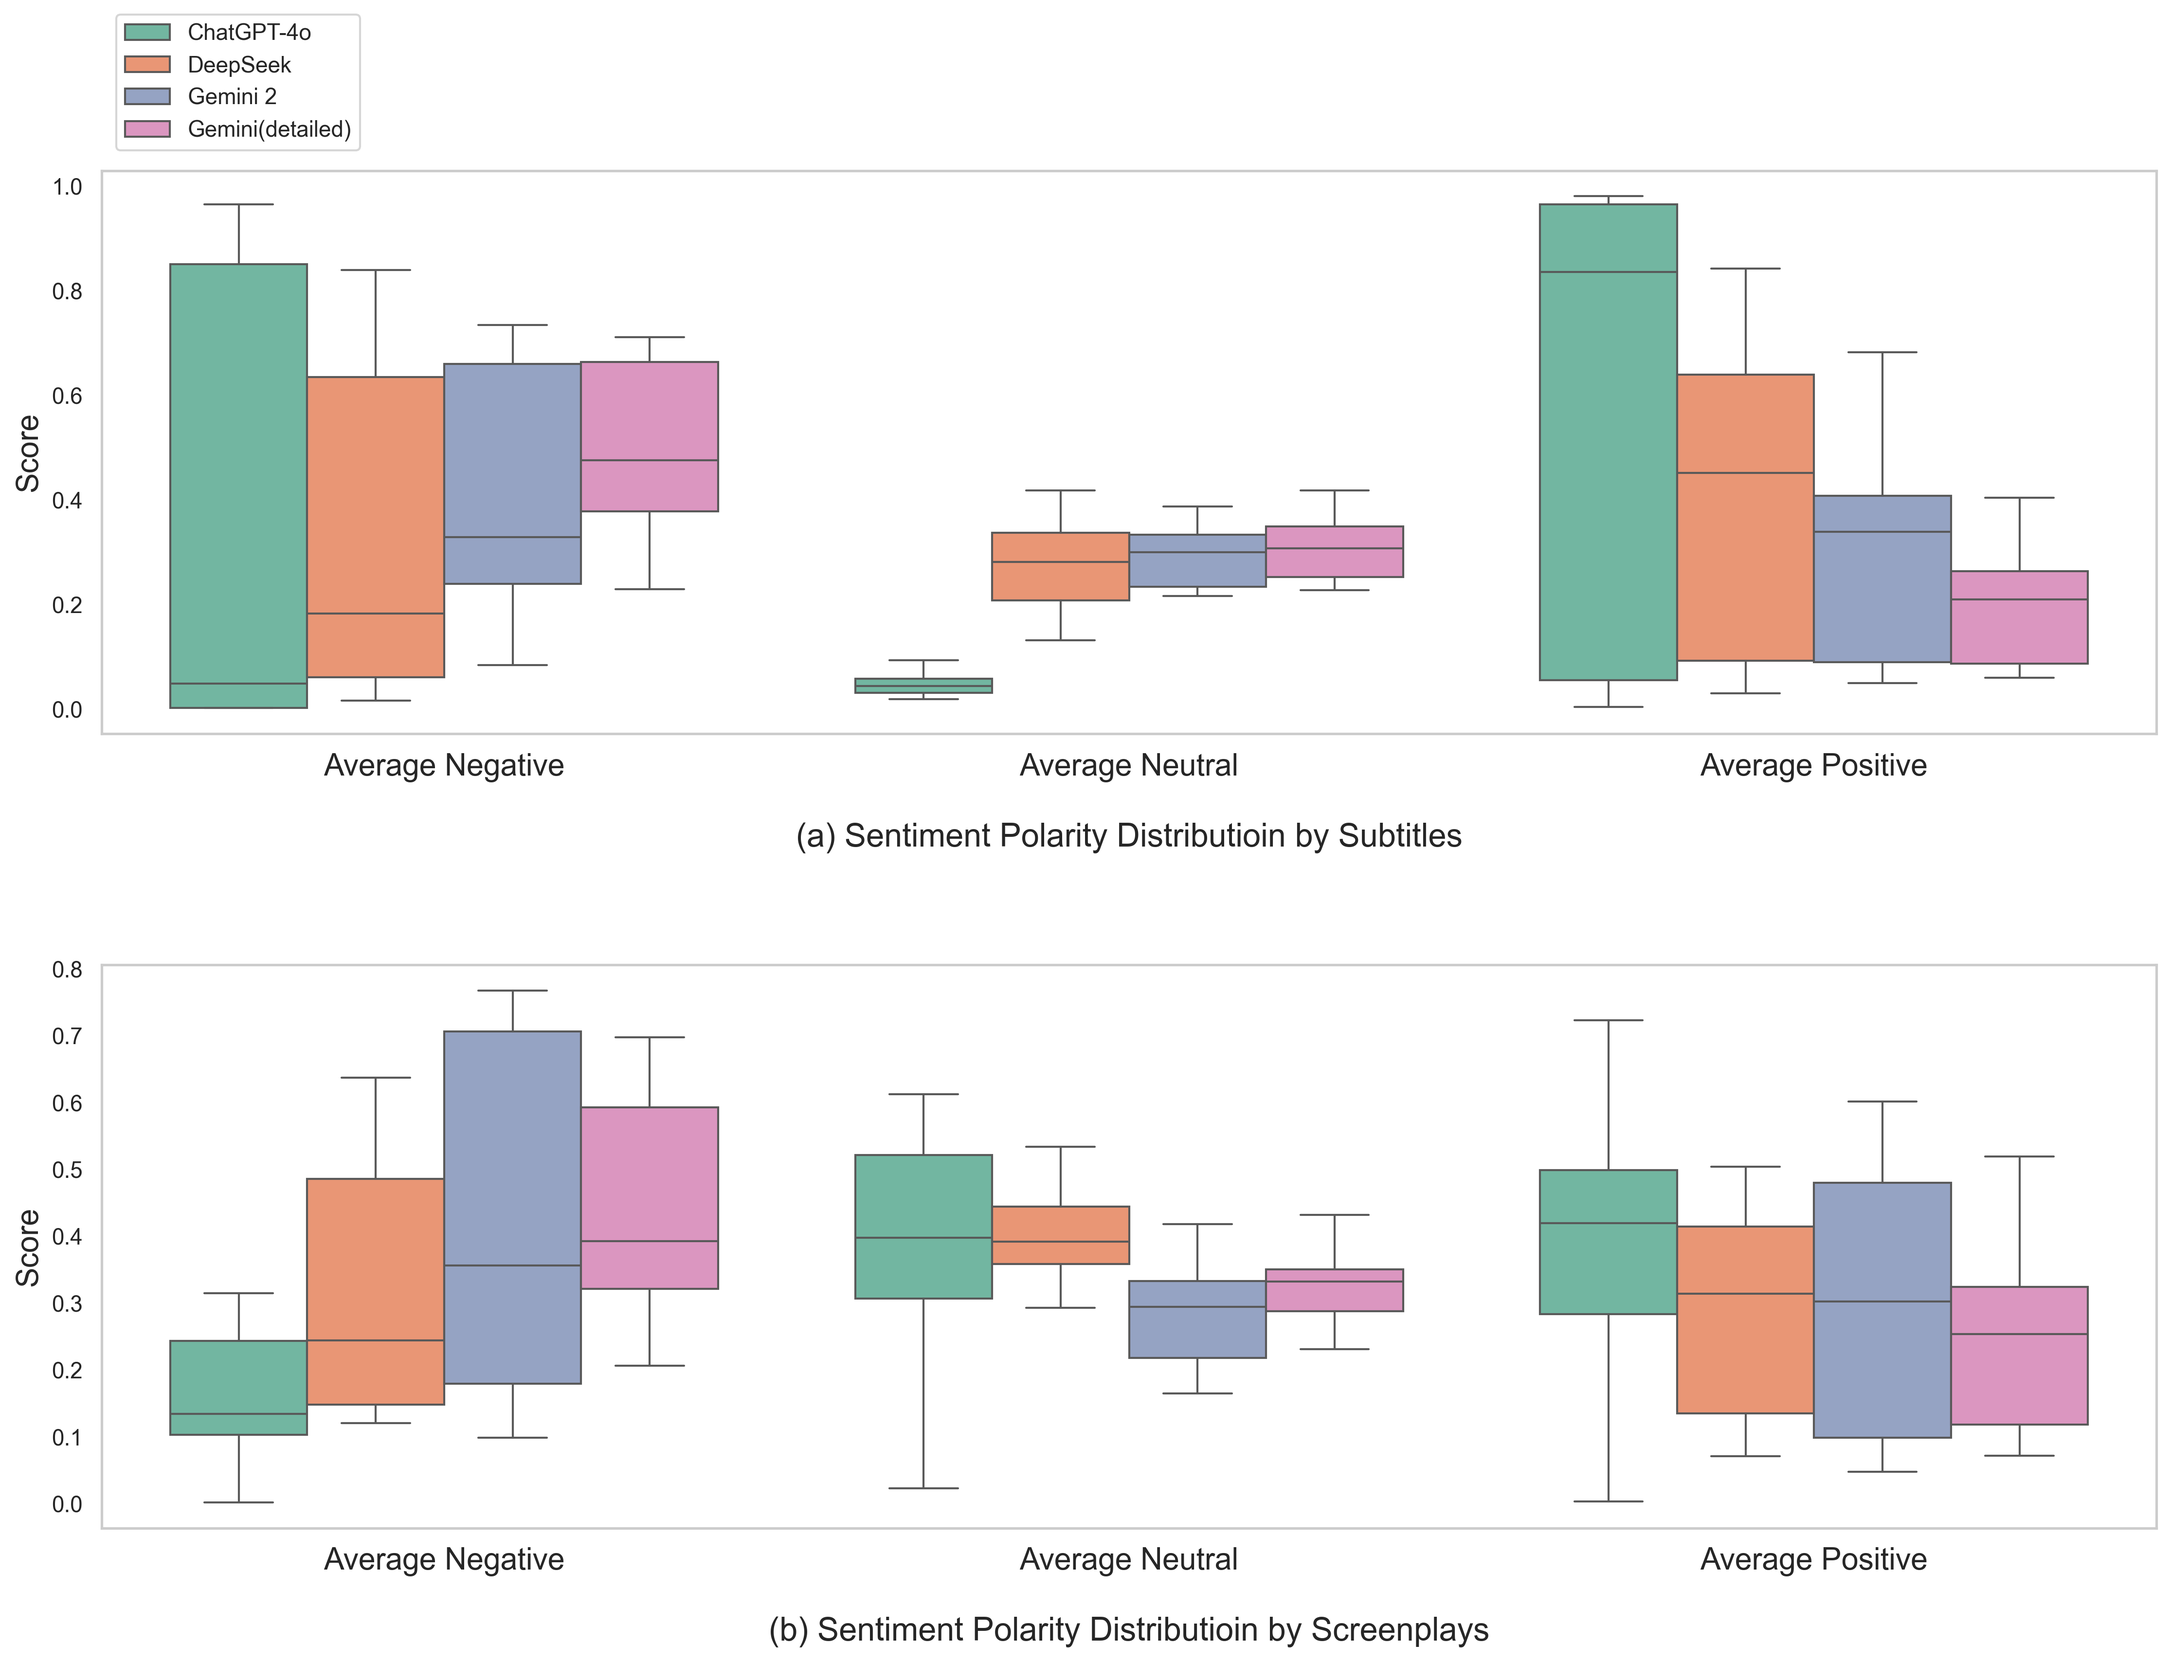
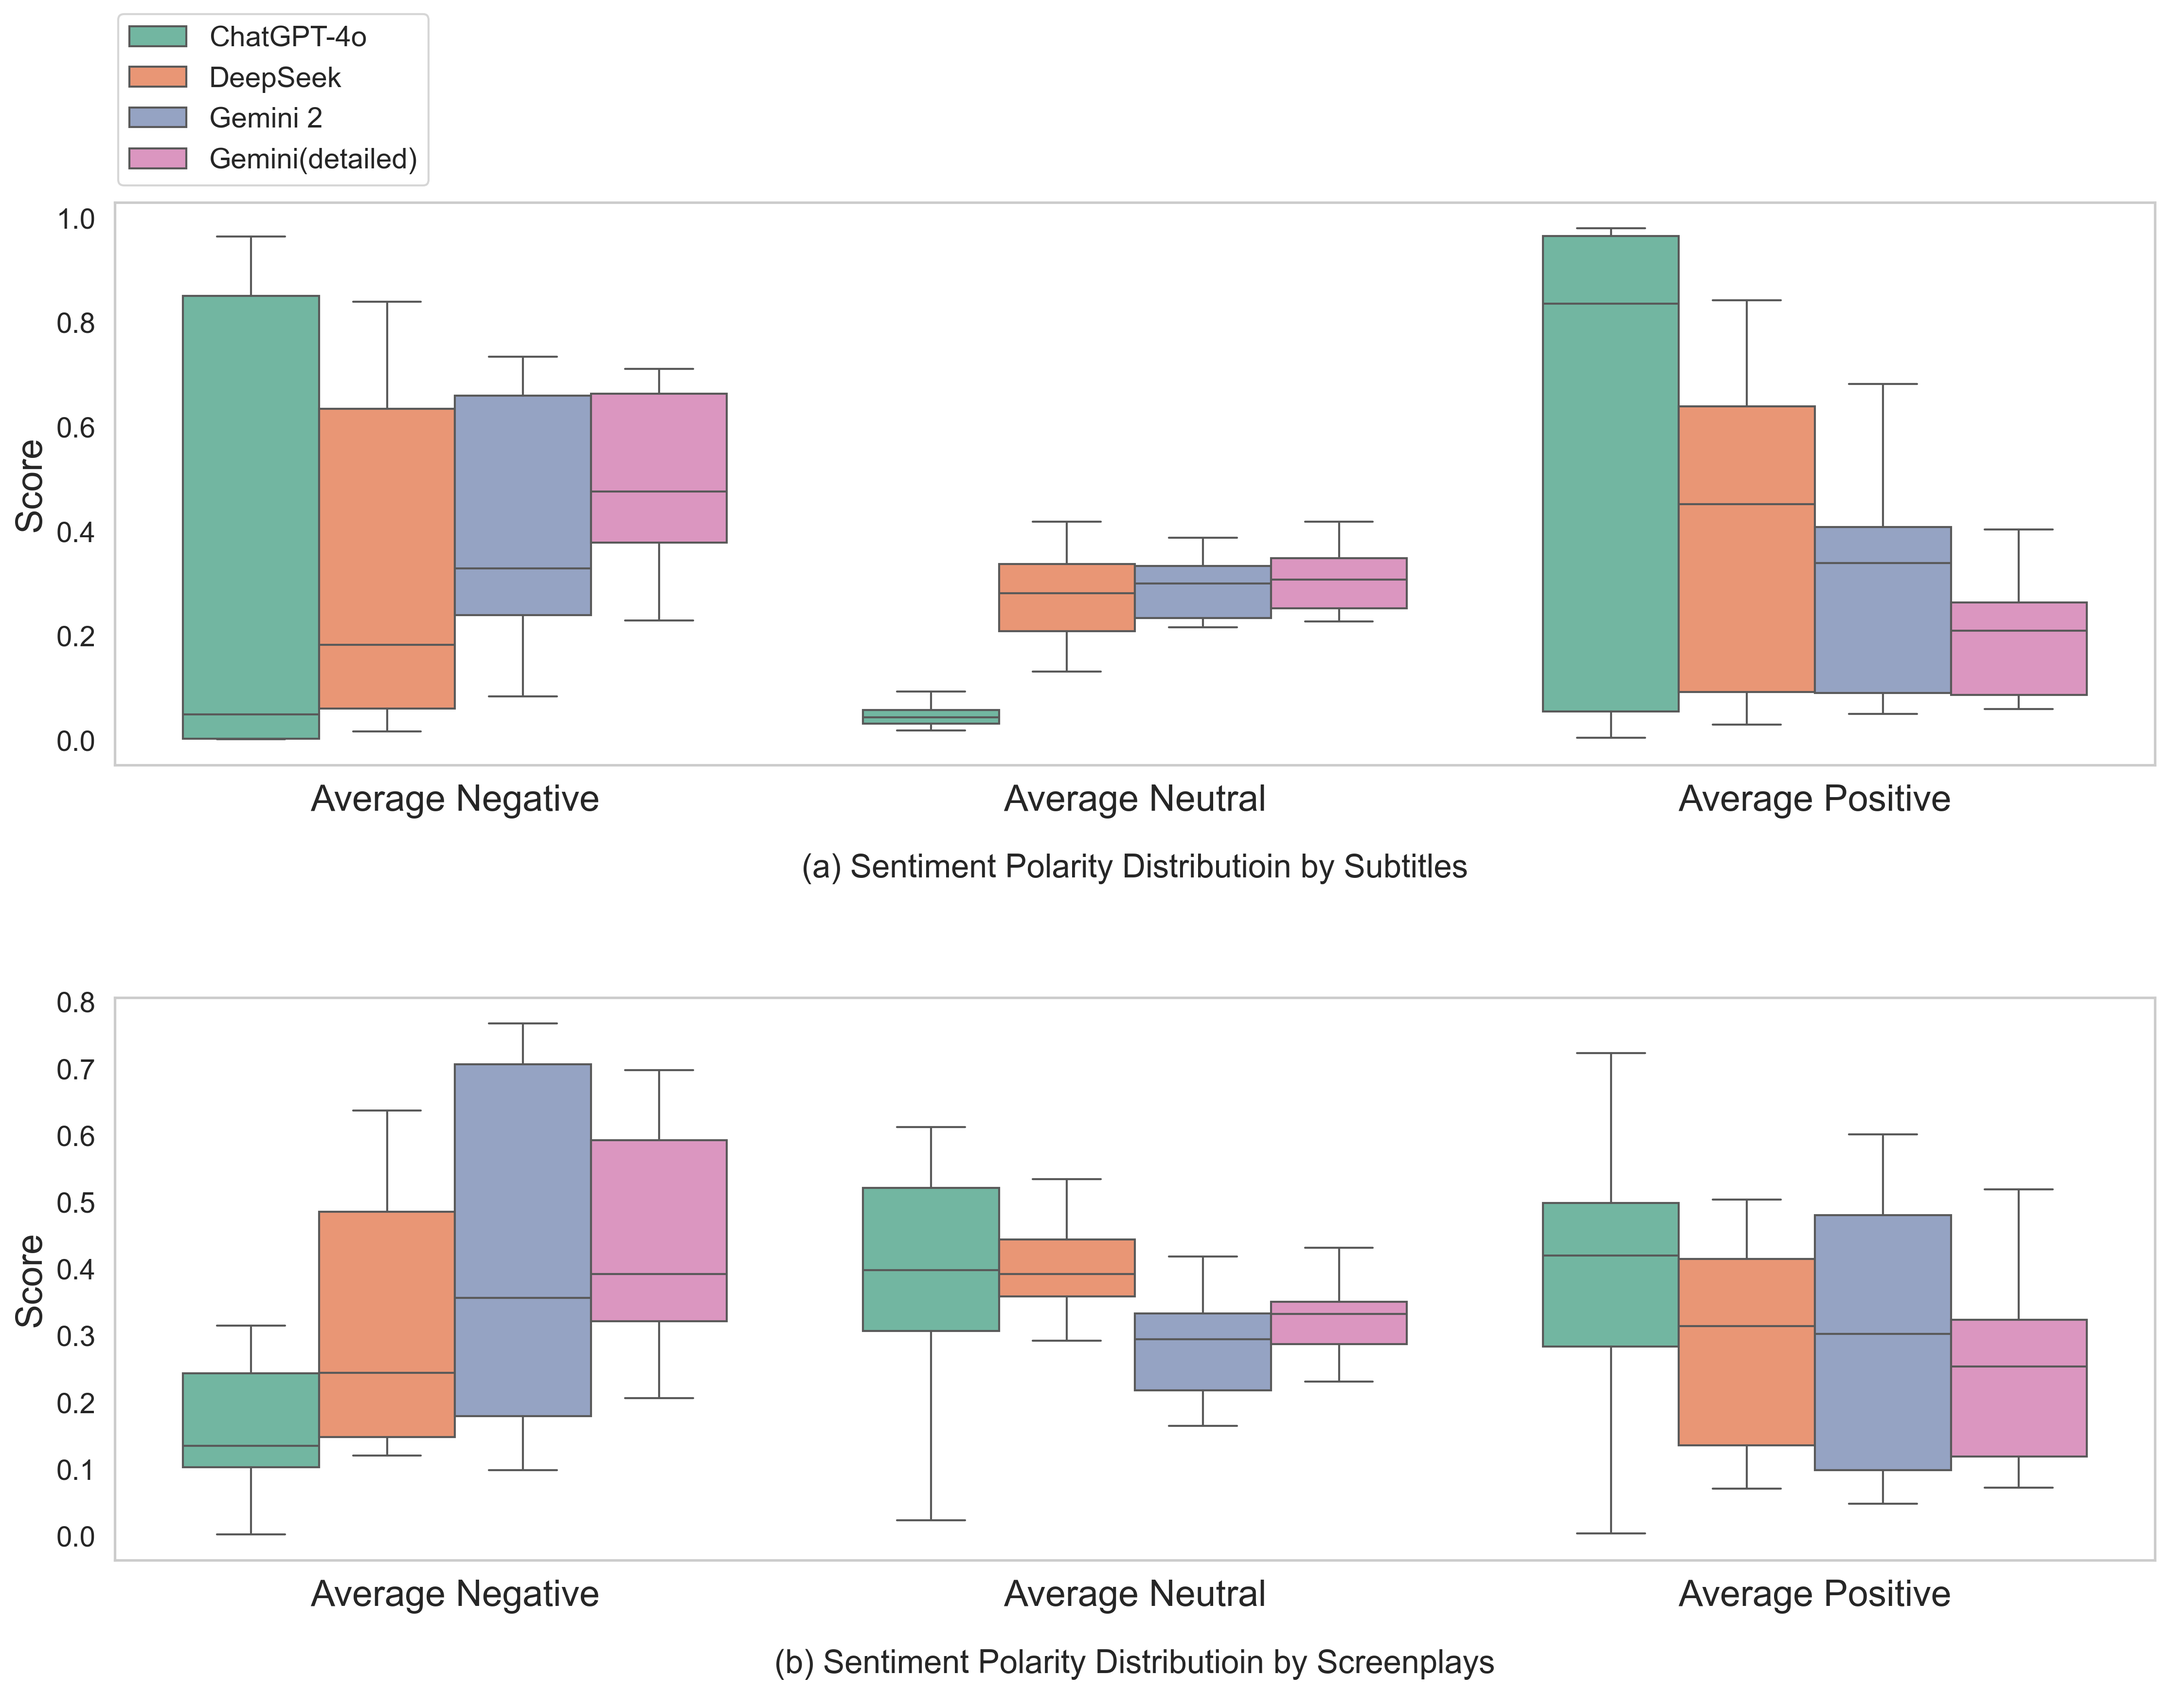
update

diff --git a/visualization/emotion.py b/visualization/emotion.py
@@ -64,14 +64,14 @@ def generate_emotion_box_plots(ai_df, source_name='ai', ax=None):
             "aireviews_chatgpt.csv": "ChatGPT-4o",
             "aireviews_deepseek.csv": "DeepSeek",
             "aireviews_gemini.csv": "Gemini 2.0",
-            "aireviews_gemini_context_variation.csv": "Gemini_Context"
+            "aireviews_gemini_context_variation.csv": "Gemini(detailed)"
         })
     elif source_name == 'Screenplay':
         ai_df["AI Model"] = ai_df["AI Model"].replace({
             "aireviews_chatgpt_screenplays.csv": "ChatGPT-4o",
             "aireviews_deepseek_screenplays.csv": "DeepSeek",
             "aireviews_gemini_screenplays.csv": "Gemini 2.0",
-            "aireviews_gemini_screenplays_context_variation.csv": "Gemini_Context"
+            "aireviews_gemini_screenplays_context_variation.csv": "Gemini(detailed)"
         })
     # replace NA with 0
     ai_df = ai_df.fillna(0)
@@ -88,22 +88,31 @@ def generate_emotion_box_plots(ai_df, source_name='ai', ax=None):
     sns.boxplot(data=ai_sub_melted, x='Emotion', y='Score', hue='AI Model', palette="Set2", showfliers=False, ax=ax)
 
     # ddding title and labels
-    ax.set_title(f'{source_name}', fontsize=16)
-    ax.set_xlabel('', fontsize=15)
-    ax.tick_params(axis='x', labelsize=13)
-    ax.set_ylabel('Score', fontsize=15)
+    # ax.set_title(f'{source_name}', fontsize=16)
+    ax.set_xlabel('', fontsize=16)
+    ax.tick_params(axis='x', labelsize=16)
+    ax.set_ylabel('Score', fontsize=16)
+    ax.tick_params(axis='y', labelsize=14)
 
     # ax.tick_params(axis='x', rotation=45)
     ax.get_legend().remove()
+
+    # remove subplot[0] x-axis label
     if ax == axes[0]:
         ax.set_xlabel('')
+
+    # adjust subplots title location
+    if ax == axes[0]:
+        ax.text(0.5, -0.2, "(a) Emotion Distribution by Subtitles", fontsize=16, ha='center', transform=ax.transAxes)
+    else:
+        ax.text(0.5, -0.2, "(b) Emotion Distribution by Screenplays", fontsize=16, ha='center', transform=ax.transAxes)
 
 # load the subtitle and screenplay data
 subtitles_df = pd.read_csv('../emotions_output/average_emotion_scores_subtitles.csv')
 screenplays_df = pd.read_csv('../emotions_output/average_emotion_scores_screenplays.csv')
 
 # display subplot
-fig, axes = plt.subplots(2, 1, figsize=(16, 8))
+fig, axes = plt.subplots(2, 1, figsize=(16, 12))
 
 # subplot 1
 generate_emotion_box_plots(subtitles_df, source_name='Subtitle', ax=axes[0])
@@ -115,7 +124,7 @@ generate_emotion_box_plots(screenplays_df, source_name='Screenplay', ax=axes[1])
 handles, labels = axes[1].get_legend_handles_labels()
 fig.legend(handles, labels, loc='upper left', bbox_to_anchor=(0.13, 0.92), ncol=1)
 
-fig.subplots_adjust(hspace=0.6, top=0.92)
+fig.subplots_adjust(hspace=0.4, top=0.92)
 
 plt.savefig('emotion_scores(subtitles + screenplays).png',dpi=300, bbox_inches="tight")
 plt.tight_layout()

diff --git a/visualization/polarity.py b/visualization/polarity.py
@@ -156,7 +156,7 @@ def generate_polarity_box_plots(ai_df, source_name='ai', ax=None):
             "aireviews_gemini.csv": "Gemini 2",
             "aireviews_gemini_context_variation.csv": "Gemini(detailed)"
         })
-        plot_title = "(a) Sentiment Polarity Distributioin by Subtitles"
+        # plot_title = "(a) Sentiment Polarity Distributioin by Subtitles"
     elif source_name == 'Screenplay':
         ai_df["AI Model"] = ai_df["AI Model"].replace({
             "aireviews_chatgpt_screenplays.csv": "ChatGPT-4o",
@@ -164,7 +164,7 @@ def generate_polarity_box_plots(ai_df, source_name='ai', ax=None):
             "aireviews_gemini_screenplays.csv": "Gemini 2" ,
             "aireviews_gemini_screenplays_context_variation.csv": "Gemini(detailed)"
         })
-        plot_title = "(b) Sentiment Polarity Distributioin by Screenplays"
+        # plot_title = "(b) Sentiment Polarity Distributioin by Screenplays"
     # replace NA with 0
     ai_df = ai_df.fillna(0)
 
@@ -182,12 +182,18 @@ def generate_polarity_box_plots(ai_df, source_name='ai', ax=None):
     # ddding title and labels
     # ax.set_title(f'{source_name}', fontsize=16)
 
-    ax.text(0.5, -0.2, plot_title, fontsize=16, ha='center', transform=ax.transAxes)
+    # adjust subplot title location
+    # ax.text(0.5, -0.2, plot_title, fontsize=18, ha='center', transform=ax.transAxes)
+    if ax == axes[0]:
+        ax.text(0.5, -0.2, "(a) Sentiment Polarity Distributioin by Subtitles", fontsize=16, ha='center', transform=ax.transAxes)
+    else:
+        ax.text(0.5, -0.2, "(b) Sentiment Polarity Distributioin by Screenplays", fontsize=16, ha='center', transform=ax.transAxes)
 
-    ax.set_xlabel('', fontsize=15)
-    ax.set_ylabel('Score', fontsize=15)
+    ax.set_xlabel('', fontsize=18)
+    ax.set_ylabel('Score', fontsize=18)
 
-    ax.tick_params(axis='x', labelsize=15)
+    ax.tick_params(axis='x', labelsize=18)
+    ax.tick_params(axis='y', labelsize=14)
     ax.grid(False)
 
     ax.get_legend().remove()
@@ -208,7 +214,7 @@ generate_polarity_box_plots(screenplays_df, source_name='Screenplay', ax=axes[1]
 
 # add shared legend
 handles, labels = axes[1].get_legend_handles_labels()
-fig.legend(handles, labels, loc='upper left', bbox_to_anchor=(0.08, 1.0), ncol=1)
+fig.legend(handles, labels, loc='upper left', bbox_to_anchor=(0.08, 1.02), ncol=1,fontsize=14)
 
 # fig.subplots_adjust(hspace=0.6, top=0.92)
 plt.tight_layout(pad=4.0, rect=(0, 0, 1, 0.96))
